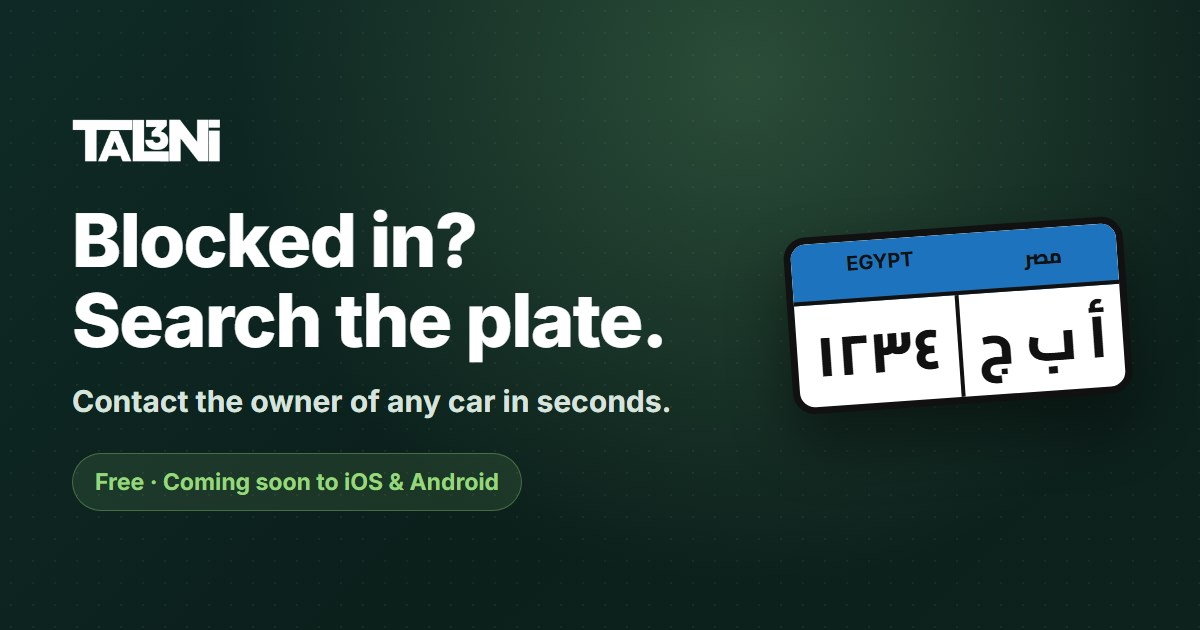
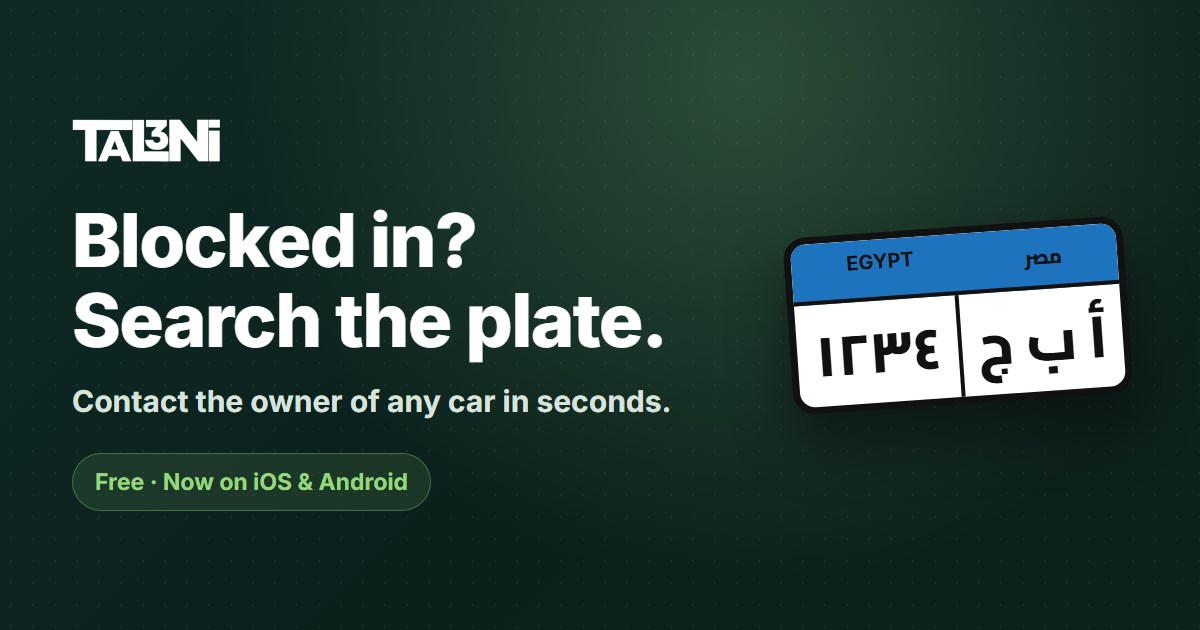
Live on iOS and Android: real store links
The 'Coming soon' badges on both landing pages become links to the App
Store (Egypt listing) and Google Play, and the eyebrow and link-preview
images now say the app is available.

Changed region(s): [[0.1233, 0.7238, 0.4317, 0.8143]]

diff --git a/index-ar.html b/index-ar.html
@@ -55,23 +55,23 @@
         <div class="hero-copy">
           <span class="eyebrow">
             <span class="dot" aria-hidden="true"></span>
-            قريباً على iOS و Android
+            متاح الآن على iOS و Android
           </span>
           <h1>حد قافل عليك؟<br>ابحث باللوحة.</h1>
           <p class="tagline">
             طلعني يساعدك توصل لصاحب أي عربية مسجلة في مصر في ثواني. من غير كلاكسات، ولا خبط على الزجاج، ولا انتظار.
           </p>
           <div class="badges">
-            <span class="badge">
+            <a class="badge" href="https://apps.apple.com/eg/app/tal3ni/id6817612512" target="_blank" rel="noopener" aria-label="حمّل طلعني من App Store">
               <svg class="badge-icon" viewBox="0 0 24 24" fill="currentColor" aria-hidden="true">
                 <path d="M17.05 20.28c-.98.95-2.05.8-3.08.35-1.09-.46-2.09-.48-3.24 0-1.44.62-2.2.44-3.06-.35C2.79 15.25 3.51 7.59 9.05 7.31c1.35.07 2.29.74 3.08.8 1.18-.24 2.31-.93 3.57-.84 1.51.12 2.65.72 3.4 1.8-3.12 1.87-2.38 5.98.48 7.13-.57 1.5-1.31 2.99-2.54 4.09zM12 7.25c-.15-2.23 1.66-4.07 3.74-4.25.29 2.58-2.34 4.5-3.74 4.25z"/>
               </svg>
               <span class="badge-text">
-                <span class="small">قريباً على</span>
+                <span class="small">حمّله من</span>
                 <span class="big">App Store</span>
               </span>
-            </span>
-            <span class="badge">
+            </a>
+            <a class="badge" href="https://play.google.com/store/apps/details?id=io.github.tal3ni.app" target="_blank" rel="noopener" aria-label="نزّل طلعني من Google Play">
               <svg class="badge-icon" viewBox="0 0 24 24" aria-hidden="true">
                 <path fill="#34A853" d="M3.6 20.7c0 .3.1.6.3.8l9.2-9.2-9.2-9.2c-.2.2-.3.5-.3.8v16.8z"/>
                 <path fill="#FBBC04" d="M13.1 12.3l3 3 3.7-2.1c.6-.4.6-1.3 0-1.7l-3.7-2.1-3 2.9z"/>
@@ -79,10 +79,10 @@
                 <path fill="#4285F4" d="M13.1 12.3L3.7 21.7c.2.1.5.1.7 0l11.7-6.7-3-2.7z"/>
               </svg>
               <span class="badge-text">
-                <span class="small">قريباً على</span>
+                <span class="small">نزّله من</span>
                 <span class="big">Google Play</span>
               </span>
-            </span>
+            </a>
           </div>
           <ul class="hero-points">
             <li>

diff --git a/index.html b/index.html
@@ -64,7 +64,7 @@
           <div class="hero-copy">
             <span class="eyebrow">
               <span class="dot" aria-hidden="true"></span>
-              Coming soon to iOS &amp; Android
+              Now on iOS &amp; Android
             </span>
             <h1>Blocked in?<br />Search the plate.</h1>
             <p class="tagline">
@@ -73,18 +73,18 @@
               around.
             </p>
             <div class="badges">
-              <span class="badge">
+              <a class="badge" href="https://apps.apple.com/eg/app/tal3ni/id6817612512" target="_blank" rel="noopener" aria-label="Download Tal3ni on the App Store">
                 <svg class="badge-icon" viewBox="0 0 24 24" fill="currentColor" aria-hidden="true">
                   <path
                     d="M17.05 20.28c-.98.95-2.05.8-3.08.35-1.09-.46-2.09-.48-3.24 0-1.44.62-2.2.44-3.06-.35C2.79 15.25 3.51 7.59 9.05 7.31c1.35.07 2.29.74 3.08.8 1.18-.24 2.31-.93 3.57-.84 1.51.12 2.65.72 3.4 1.8-3.12 1.87-2.38 5.98.48 7.13-.57 1.5-1.31 2.99-2.54 4.09zM12 7.25c-.15-2.23 1.66-4.07 3.74-4.25.29 2.58-2.34 4.5-3.74 4.25z"
                   />
                 </svg>
                 <span class="badge-text">
-                  <span class="small">Coming soon to</span>
+                  <span class="small">Download on the</span>
                   <span class="big">App Store</span>
                 </span>
-              </span>
-              <span class="badge">
+              </a>
+              <a class="badge" href="https://play.google.com/store/apps/details?id=io.github.tal3ni.app" target="_blank" rel="noopener" aria-label="Get Tal3ni on Google Play">
                 <svg class="badge-icon" viewBox="0 0 24 24" aria-hidden="true">
                   <path fill="#34A853" d="M3.6 20.7c0 .3.1.6.3.8l9.2-9.2-9.2-9.2c-.2.2-.3.5-.3.8v16.8z" />
                   <path fill="#FBBC04" d="M13.1 12.3l3 3 3.7-2.1c.6-.4.6-1.3 0-1.7l-3.7-2.1-3 2.9z" />
@@ -92,10 +92,10 @@
                   <path fill="#4285F4" d="M13.1 12.3L3.7 21.7c.2.1.5.1.7 0l11.7-6.7-3-2.7z" />
                 </svg>
                 <span class="badge-text">
-                  <span class="small">Coming soon to</span>
+                  <span class="small">Get it on</span>
                   <span class="big">Google Play</span>
                 </span>
-              </span>
+              </a>
             </div>
             <ul class="hero-points">
               <li>
